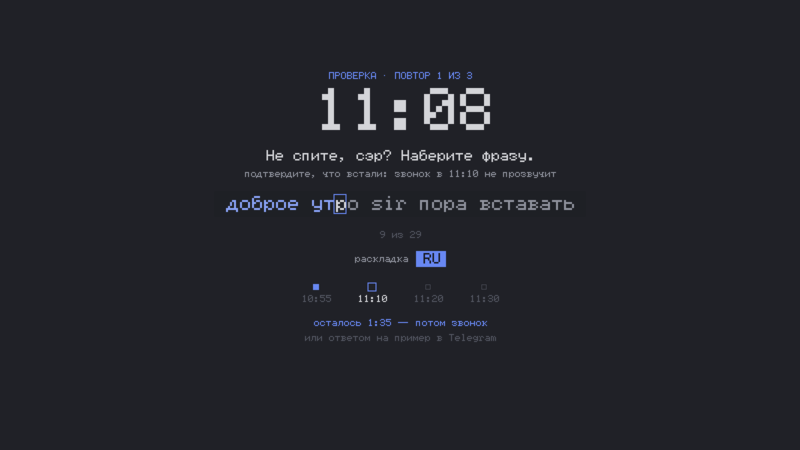
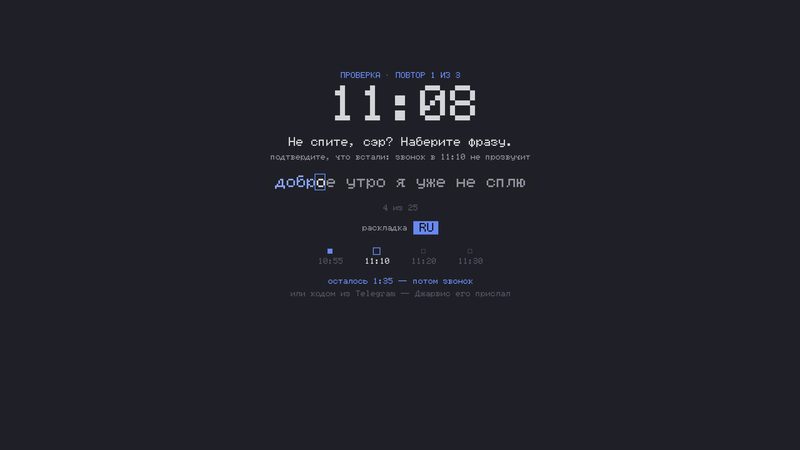
Hotkey-overlay titles, a working overlay bind on Russian layout, and sanitized wake screenshots
binds.kdl: every spawn/spawn-sh bind now carries a short Russian
hotkey-overlay-title, so Super+Shift+/ shows readable action names
instead of raw script paths that overflowed the popup. Also added
Mod+Shift+Period as a duplicate for show-hotkey-overlay, since niri
matches by symbol and the physical Slash key sends "period" on a
Russian layout (same issue Mod+Period already worked around via
scripts/slashkey) — the shortcut was simply unreachable in Russian
until now.

assets/wake-check.png and assets/wake-ring.png: regenerated with a
neutral phrase instead of the real personal wake-up phrase, rendered
at the script's native 1920x1080 and downscaled to 800x450 to match
the original screenshots' proportions.

diff --git a/docs/ru/keybindings.md b/docs/ru/keybindings.md
@@ -264,7 +264,8 @@ Super + колесо листает окна ленты.
 
 | Клавиши | Действие |
 |---|---|
-| `Mod + Shift + /` | показать все сочетания |
+| `Mod + Shift + /` | показать все сочетания (на русской раскладке не нажать — физическая клавиша там шлёт `.`, используйте дубль ниже) |
+| `Mod + Shift + Period` | показать все сочетания (дубль для русской раскладки) |
 | `Mod + Escape` | отдать все клавиши окну (вкл/выкл) |
 | `Mod + Shift + E` | выйти из niri |
 | `Ctrl + Alt + Delete` | выйти из niri |

diff --git a/docs/keybindings.md b/docs/keybindings.md
@@ -264,7 +264,8 @@ Super + wheel scrolls through the strip's windows.
 
 | Keys | Action |
 |---|---|
-| `Mod + Shift + /` | show all shortcuts |
+| `Mod + Shift + /` | show all shortcuts (doesn't work on a Russian layout — that physical key sends `.` there, use the duplicate below) |
+| `Mod + Shift + Period` | show all shortcuts (duplicate for the Russian layout) |
 | `Mod + Escape` | give all keys to the focused window on/off |
 | `Mod + Shift + E` | quit niri |
 | `Ctrl + Alt + Delete` | quit niri |
